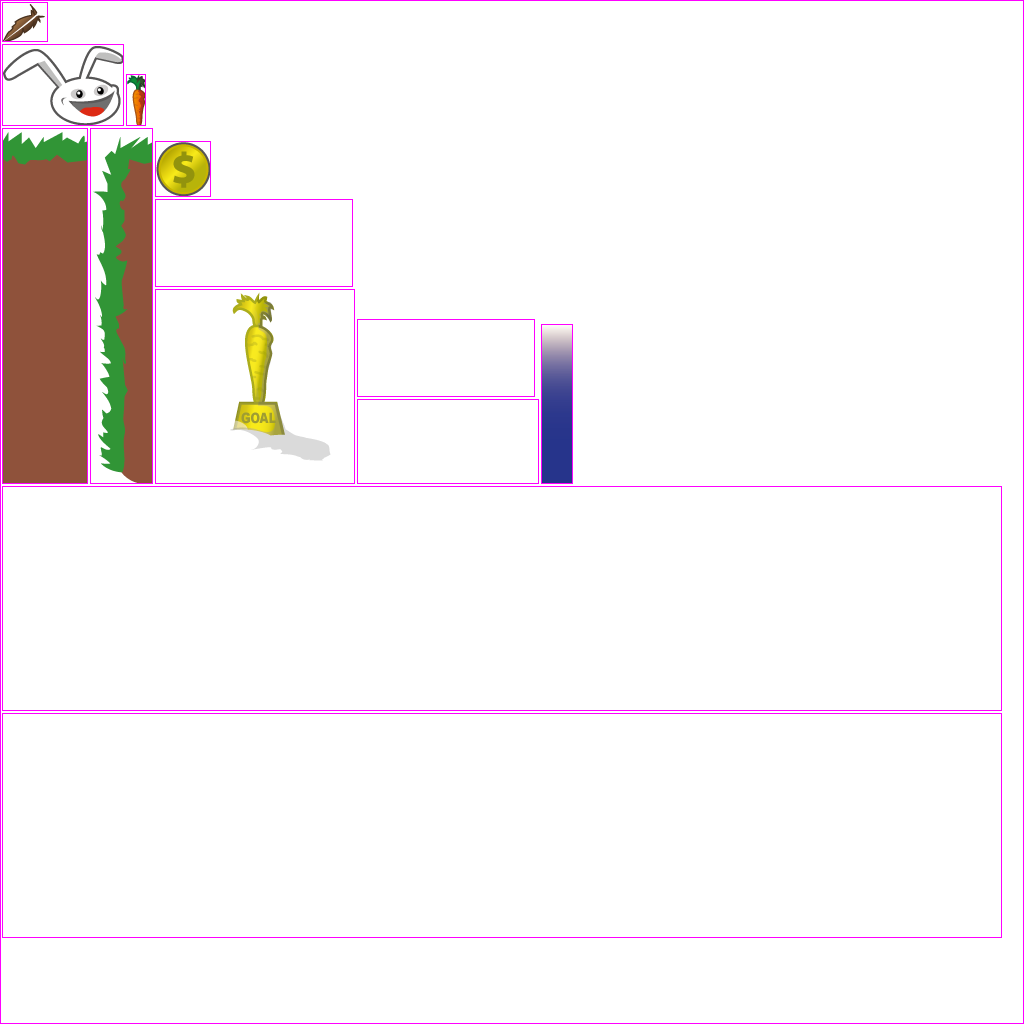
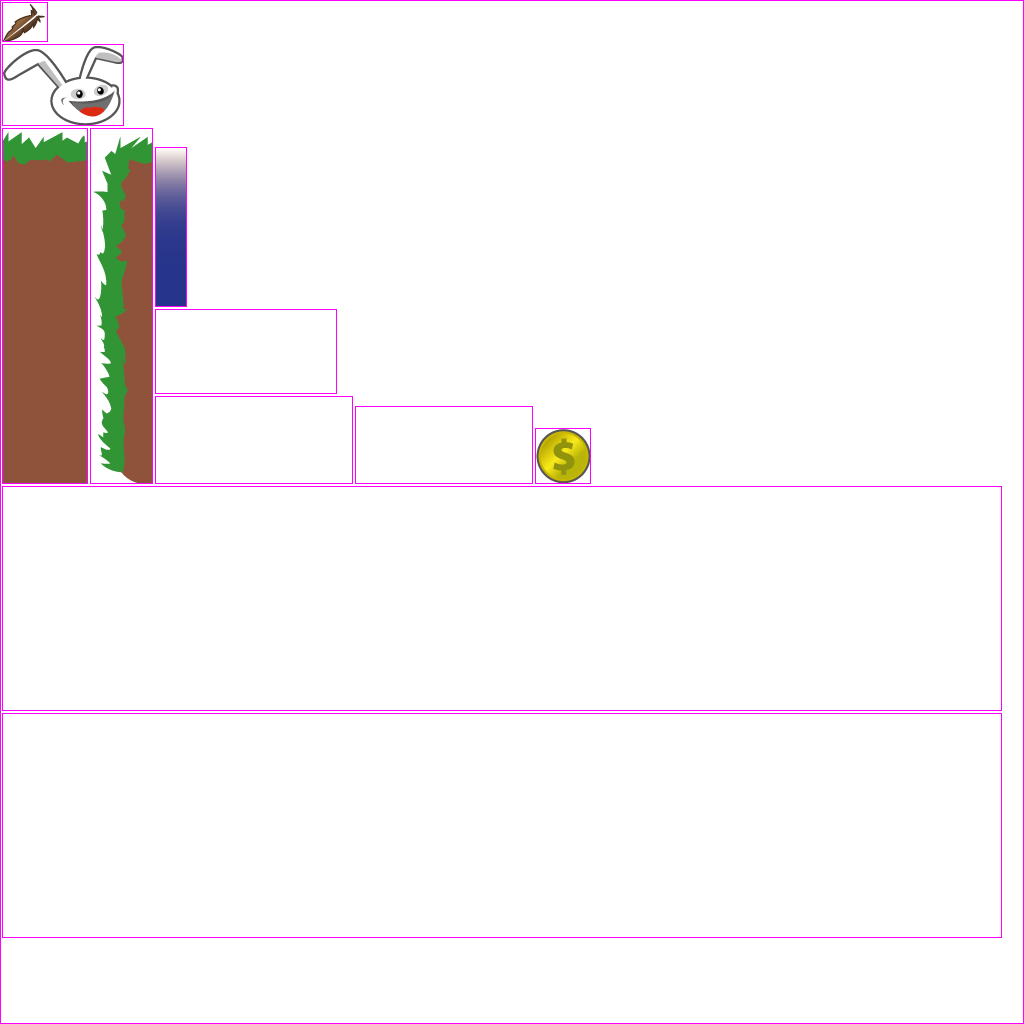
CHAPTER 10 FIXES. resets chapter 10 to correct version.

diff --git a/core/src/com/packtpub/libgdx/canyonbunny/game/objects/Carrot.java b/core/src/com/packtpub/libgdx/canyonbunny/game/objects/Carrot.java
@@ -1,15 +1,16 @@
+/**
 package com.packtpub.libgdx.canyonbunny.game.objects;
 
 import com.badlogic.gdx.graphics.g2d.SpriteBatch;
 import com.badlogic.gdx.graphics.g2d.TextureRegion;
 import com.packtpub.libgdx.canyonbunny.game.Assets;
 
-/**
+ *
  * Carrot class to hold information about the carrot object in the game world.
  * extends AbstractGameObject. 
  * 
  * @author Justin Study
- */
+ *
 public class Carrot extends AbstractGameObject
 {
 	private TextureRegion regCarrot;
@@ -21,7 +22,7 @@ public class Carrot extends AbstractGameObject
 	
 	/**
 	 * initializes carrot object. sets size of carrot and places collision box on it.
-	 */
+	 *
 	private void init()
 	{
 		dimension.set(0.25f, 0.5f);
@@ -35,7 +36,7 @@ public class Carrot extends AbstractGameObject
 	
 	/**
 	 * renders the carrot to the screen with draw() method.
-	 */
+	 *
 	public void render(SpriteBatch batch)
 	{
 		TextureRegion reg = null;
@@ -46,8 +47,5 @@ public class Carrot extends AbstractGameObject
 				rotation, reg.getRegionX(), reg.getRegionY(), reg.getRegionWidth(),
 				reg.getRegionHeight(), false, false);
 	}
-	
-	
-	
-	
 }
+*/

diff --git a/core/src/com/packtpub/libgdx/canyonbunny/game/Level.java b/core/src/com/packtpub/libgdx/canyonbunny/game/Level.java
@@ -21,14 +21,14 @@ import com.packtpub.libgdx.canyonbunny.game.objects.WaterOverlay;
 import com.packtpub.libgdx.canyonbunny.game.objects.BunnyHead;
 import com.packtpub.libgdx.canyonbunny.game.objects.Feather;
 import com.packtpub.libgdx.canyonbunny.game.objects.GoldCoin;
-import com.packtpub.libgdx.canyonbunny.game.objects.Carrot;
-import com.packtpub.libgdx.canyonbunny.game.objects.Goal;
+//import com.packtpub.libgdx.canyonbunny.game.objects.Carrot;
+//import com.packtpub.libgdx.canyonbunny.game.objects.Goal;
 
 public class Level 
 {
 	public static final String TAG = Level.class.getName();
-	public Array<Carrot> carrots;
-	public Goal goal;
+	//public Array<Carrot> carrots;
+	//public Goal goal;
 	 
 	public enum BLOCK_TYPE 
 	{
@@ -36,7 +36,7 @@ public class Level
 	    ROCK(0, 255, 0), // green
 	    PLAYER_SPAWNPOINT(255, 255, 255), // white
 	    ITEM_FEATHER(255, 0, 255), // purple
-	    GOAL(255, 0, 0), // red
+	    //GOAL(255, 0, 0), // red
 	    ITEM_GOLD_COIN(255, 255, 0); // yellow
 
 	    private int color;

diff --git a/core/src/com/packtpub/libgdx/canyonbunny/game/Assets.java b/core/src/com/packtpub/libgdx/canyonbunny/game/Assets.java
@@ -199,8 +199,8 @@ public class Assets implements Disposable, AssetErrorListener
 		public final AtlasRegion mountainLeft;
 		public final AtlasRegion mountainRight;
 		public final AtlasRegion waterOverlay;
-		public final AtlasRegion carrot;
-		public final AtlasRegion goal;
+		//public final AtlasRegion carrot;
+		//public final AtlasRegion goal;
 		
 		public AssetLevelDecoration (TextureAtlas atlas)
 		{
@@ -210,8 +210,8 @@ public class Assets implements Disposable, AssetErrorListener
 			mountainLeft = atlas.findRegion("mountain_left");
 			mountainRight = atlas.findRegion("mountain_right");
 			waterOverlay = atlas.findRegion("water_overlay");
-			carrot = atlas.findRegion("carrot");
-			goal = atlas.findRegion("goal");
+			//carrot = atlas.findRegion("carrot");
+			//goal = atlas.findRegion("goal");
 		}
 	}
 	

diff --git a/desktop/src/com/packtpub/libgdx/canyonbunny/Main.java b/desktop/src/com/packtpub/libgdx/canyonbunny/Main.java
@@ -11,6 +11,10 @@ import com.packtpub.libgdx.canyonbunny.CanyonBunnyMain;
  * Launches the game on desktop
  * @author Justin Study Chap 4 9/17/18
  */
+/**
+ * @author Justin Study
+ *
+ */
 public class Main 
 {
 	private static boolean rebuildAtlas = false;
